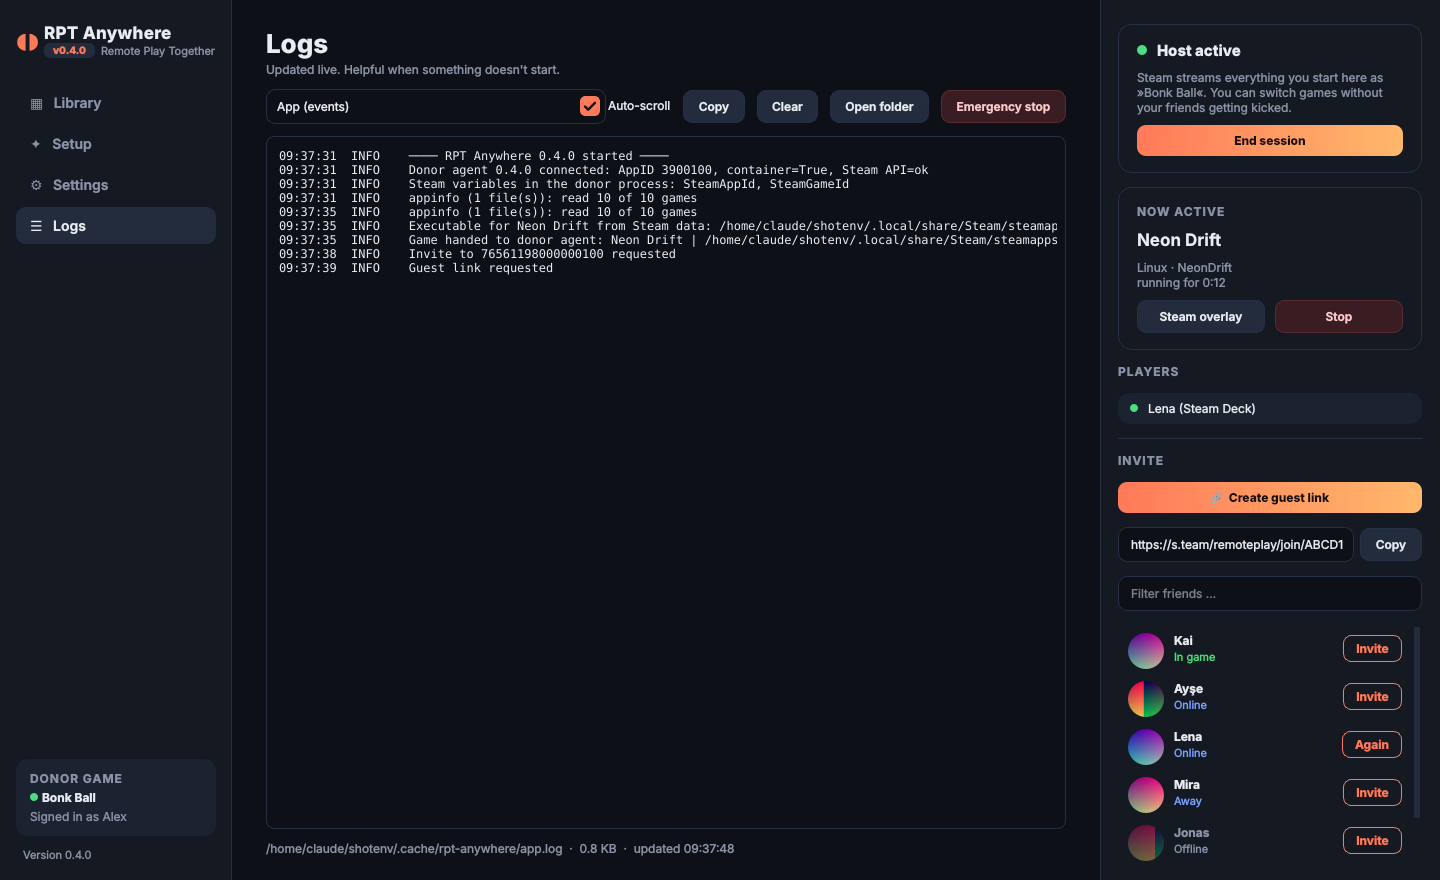
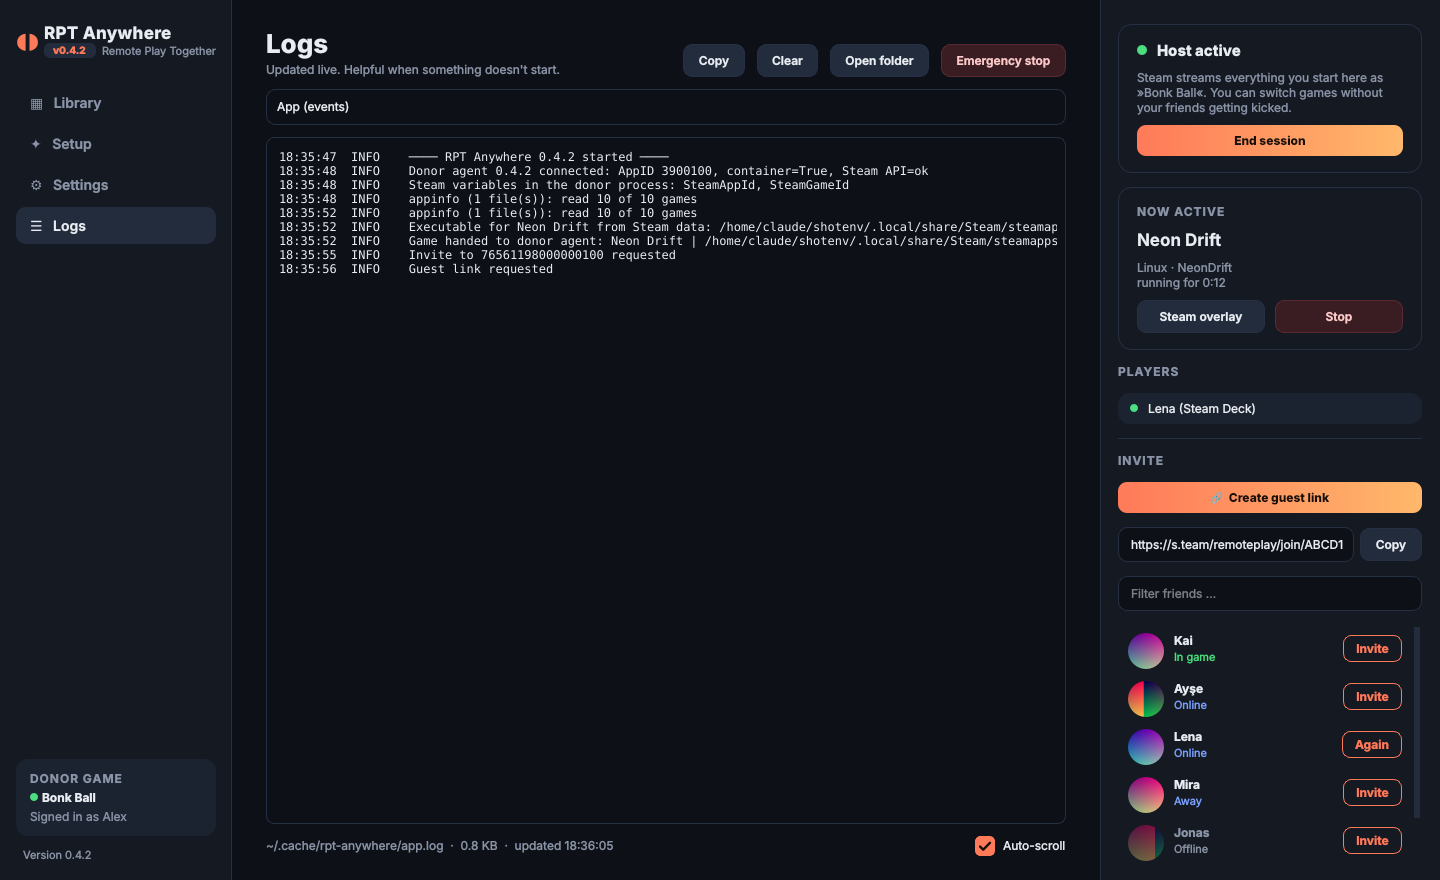
RPT Anywhere 0.4.2: fix Logs tab layout, false fallback warning, more streaming diagnostics
Claude-Session: https://claude.ai/code/session_01AJUxLu6TPkAdGJWVnNDogB

diff --git a/rpt_anywhere/gui/pages.py b/rpt_anywhere/gui/pages.py
@@ -700,6 +700,12 @@ def _open_dir(p: Path):
 
 
 # =========================================================================== #
+def _short(path) -> str:
+    home = os.path.expanduser("~")
+    p = str(path)
+    return "~" + p[len(home):] if home and p.startswith(home + "/") else p
+
+
 class LogsPage(QWidget):
     """Live view of all log files (tail -f style)."""
     reset = Signal()
@@ -718,19 +724,8 @@ class LogsPage(QWidget):
         tcol.setSpacing(2)
         tcol.addWidget(label(_('Logs'), "H1"))
         tcol.addWidget(label(_('Wird live aktualisiert. Hilfreich, wenn etwas nicht startet.'),
-                             "Muted"))
+                             "Muted", wrap=True))
         top.addLayout(tcol, 1)
-        v.addLayout(top)
-
-        bar = QHBoxLayout()
-        self.source = QComboBox()
-        self.source.setMinimumWidth(340)
-        self.source.currentIndexChanged.connect(self._switch)
-        bar.addWidget(self.source)
-        self.follow = QCheckBox(_('Automatisch mitscrollen'))
-        self.follow.setChecked(True)
-        bar.addWidget(self.follow)
-        bar.addStretch(1)
         cp = QPushButton(_('Kopieren'))
         cp.clicked.connect(lambda: QGuiApplication.clipboard().setText(self.view.toPlainText()))
         clr = QPushButton(_('Leeren'))
@@ -743,8 +738,14 @@ class LogsPage(QWidget):
         nb.setToolTip(_('Session, Agent im Steam-Prozess und letztes Spiel beenden'))
         nb.clicked.connect(self.reset)
         for b in (cp, clr, op, nb):
-            bar.addWidget(b)
-        v.addLayout(bar)
+            top.addWidget(b, 0, Qt.AlignBottom)
+        v.addLayout(top)
+
+        self.source = QComboBox()
+        self.source.setSizeAdjustPolicy(QComboBox.AdjustToMinimumContentsLengthWithIcon)
+        self.source.setMinimumContentsLength(18)
+        self.source.currentIndexChanged.connect(self._switch)
+        v.addWidget(self.source)
 
         self.view = QPlainTextEdit()
         self.view.setReadOnly(True)
@@ -752,8 +753,14 @@ class LogsPage(QWidget):
         self.view.setLineWrapMode(QPlainTextEdit.NoWrap)
         self.view.setMaximumBlockCount(5000)
         v.addWidget(self.view, 1)
+        foot = QHBoxLayout()
         self.info = label("", "Small")
-        v.addWidget(self.info)
+        self.info.setSizePolicy(QSizePolicy.Ignored, QSizePolicy.Preferred)
+        foot.addWidget(self.info, 1)
+        self.follow = QCheckBox(_('Automatisch mitscrollen'))
+        self.follow.setChecked(True)
+        foot.addWidget(self.follow)
+        v.addLayout(foot)
 
         self.path: Path | None = None
         self.pos = 0
@@ -802,7 +809,7 @@ class LogsPage(QWidget):
         try:
             size = self.path.stat().st_size
         except OSError:
-            self.info.setText(_('{path}  –  (noch) nicht vorhanden').format(path=self.path))
+            self.info.setText(_('{path}  –  (noch) nicht vorhanden').format(path=_short(self.path)))
             return
         if size < self.pos:  # truncated / rewritten
             self.pos = 0
@@ -822,7 +829,7 @@ class LogsPage(QWidget):
             if self.follow.isChecked() or at_end:
                 sb.setValue(sb.maximum())
         import time as _t
-        self.info.setText(_('{path}  ·  {v1:.1f} KB  ·  aktualisiert {v2}').format(path=self.path, v1=size / 1024, v2=_t.strftime('%H:%M:%S')))
+        self.info.setText(_('{path}  ·  {v1:.1f} KB  ·  aktualisiert {v2}').format(path=_short(self.path), v1=size / 1024, v2=_t.strftime('%H:%M:%S')))
 
     def _clear(self):
         if self.path and self.path.exists():

diff --git a/rpt_anywhere/agent.py b/rpt_anywhere/agent.py
@@ -247,9 +247,12 @@ class Agent:
                 log(_('Gast-Link: {guest_link}').format(guest_link=self.guest_link))
                 self.event("guest_link", self.guest_link)
             elif kind == "session_connected":
+                log(_("Gast verbunden (Session {sid}), Spiel läuft: {running}").format(
+                    sid=payload, running=_("ja") if self.game_running() else _("nein")))
                 self.refresh_sessions()
                 self.event("joined", _('Ein Mitspieler ist beigetreten 🎮'))
             elif kind == "session_disconnected":
+                log(_("Gast getrennt (Session {sid})").format(sid=payload))
                 self.refresh_sessions()
                 self.event("left", _('Ein Mitspieler hat die Session verlassen'))
 
@@ -279,6 +282,10 @@ class Agent:
                         "pid": self.proc.pid, "started": time.time(),
                         "summary": req.get("summary", "")}
         log(_('Spiel gestartet: {v0} pid={pid} argv={v2}').format(v0=req.get('name'), pid=self.proc.pid, v2=req['argv']))
+        log(_("Overlay fürs Streaming: LD_PRELOAD={pre}, Vulkan-Layer={vk}, SteamGameId={gid}").format(
+            pre=_("ja") if "gameoverlayrenderer" in env.get("LD_PRELOAD", "") else _("FEHLT"),
+            vk=env.get("ENABLE_VK_LAYER_VALVE_steam_overlay_1", _("FEHLT")),
+            gid=env.get("SteamGameId", "-")))
 
     def reap(self) -> None:
         """Collect exit status of re-parented children (avoid zombies)."""

diff --git a/rpt_anywhere/gui/app.py b/rpt_anywhere/gui/app.py
@@ -451,6 +451,8 @@ class MainWindow(QMainWindow):
             self.host_game = None
             log.info(_('Spiel an Donor-Agent übergeben: %s | %s | cwd=%s'), g.name,
                      " ".join(p.argv), p.cwd)
+            if p.note:
+                log.warning("%s: %s", g.name, p.note)
         else:
             try:
                 self.host_game = RunningGame(g, p, logfile)
@@ -560,7 +562,7 @@ class MainWindow(QMainWindow):
         except OSError:
             pass
         st = self.link.agent_state()
-        mode = "agent" if st else ("stub" if self.link.refresh() else None)
+        mode = "agent" if st else ("stub" if self.link.refresh() and self.link.fallback() else None)
         self._steam_check = getattr(self, "_steam_check", 0) + 1
         if mode and self._steam_check % 5 == 0 and self.steam.ok and not self.steam.is_running():
             self._steam_dead = getattr(self, "_steam_dead", 0) + 1
@@ -691,6 +693,9 @@ class MainWindow(QMainWindow):
     def guest_link(self):
         if not self.agent:
             return
+        if not self.game_is_running():
+            self.toast(_('Tipp: Starte zuerst ein Spiel – sonst sehen Freunde nur einen leeren Stream.'), "warn")
+            log.warning(_('Gast-Link angefordert, bevor ein Spiel läuft – der Gast sieht dann nur „Bitte warten“'))
         self._guest_requested = time.time()
         self.link.send("guest")
         log.info(_('Gast-Link angefordert'))

diff --git a/rpt_anywhere/donor_link.py b/rpt_anywhere/donor_link.py
@@ -82,6 +82,10 @@ class DonorLink:
         t = _read_int(DONOR_DIR / "stub.alive")
         return bool(t) and _now() - t < 6 and (DONOR_DIR / "env").exists()
 
+    def fallback(self) -> bool:
+        """The placeholder runs without agent (no python3 or the agent failed)."""
+        return (DONOR_DIR / "fallback").exists()
+
     def refresh(self) -> bool:
         """Re-read the donor environment. Returns True while a donor session is live."""
         if not self.alive():
@@ -199,7 +203,7 @@ def reset(include_gui: bool = False, wait: float = 3.0) -> list[str]:
                 time.sleep(1.0)
             except (ProcessLookupError, PermissionError):
                 break
-    for name in ("state.json", "env", "pid", "stub.alive", "stop", "host.alive"):
+    for name in ("state.json", "env", "pid", "stub.alive", "stop", "fallback", "host.alive"):
         try:
             (DONOR_DIR / name).unlink()
         except OSError:

diff --git a/rpt_anywhere/launcher.py b/rpt_anywhere/launcher.py
@@ -180,8 +180,10 @@ def plan(game: Game, steam: Steam, default_proton: str = "", donor: dict | None 
         if entry:
             argv = [str(entry), "--verb=waitforexitandrun", "--",
                     str(tool.script), "waitforexitandrun", exe, *args]
-        else:
-            argv = [str(tool.script), "waitforexitandrun", exe, *args]
+            return mk(argv, summary)
+        argv = [str(tool.script), "waitforexitandrun", exe, *args]
+        if tool.runtime_appid:
+            return mk(argv, summary, note=_('{tool} braucht die Steam Linux Runtime ({appid}), die nicht gefunden wurde – Proton startet ohne sie.').format(tool=tool.name, appid=tool.runtime_appid))
         return mk(argv, summary)
 
     raise LaunchError(_('Unbekannter Runner: {runner}').format(runner=runner))

diff --git a/rpt_anywhere/__init__.py b/rpt_anywhere/__init__.py
@@ -1,3 +1,3 @@
 """RPT Anywhere – Steam Remote Play Together for any game on Linux."""
 
-__version__ = "0.4.1"
+__version__ = "0.4.2"

diff --git a/CHANGELOG.md b/CHANGELOG.md
@@ -1,5 +1,16 @@
 # Changelog
 
+## [0.4.2] – 2026-11-20
+
+### Fixed
+- Logs tab: the source selector, the auto-scroll checkbox and the buttons no longer overlap in narrow windows. Buttons moved next to the heading, auto-scroll into the footer.
+- No more false “Donor connected without agent (fallback mode)” warning while the agent is still loading the Steam API. The placeholder now marks fallback mode explicitly.
+
+### Added
+- Warning when a guest link is created before a game is running – the guest would only see “Please wait”.
+- The donor log now records when guests connect/disconnect (and whether a game was running), and whether Steam's overlay hooks (LD_PRELOAD, Vulkan layer, SteamGameId) reach the started game.
+- Warning when a Proton version needs the Steam Linux Runtime but it was not found.
+
 ## [0.4.1] – 2026-11-20
 
 ### Fixed
